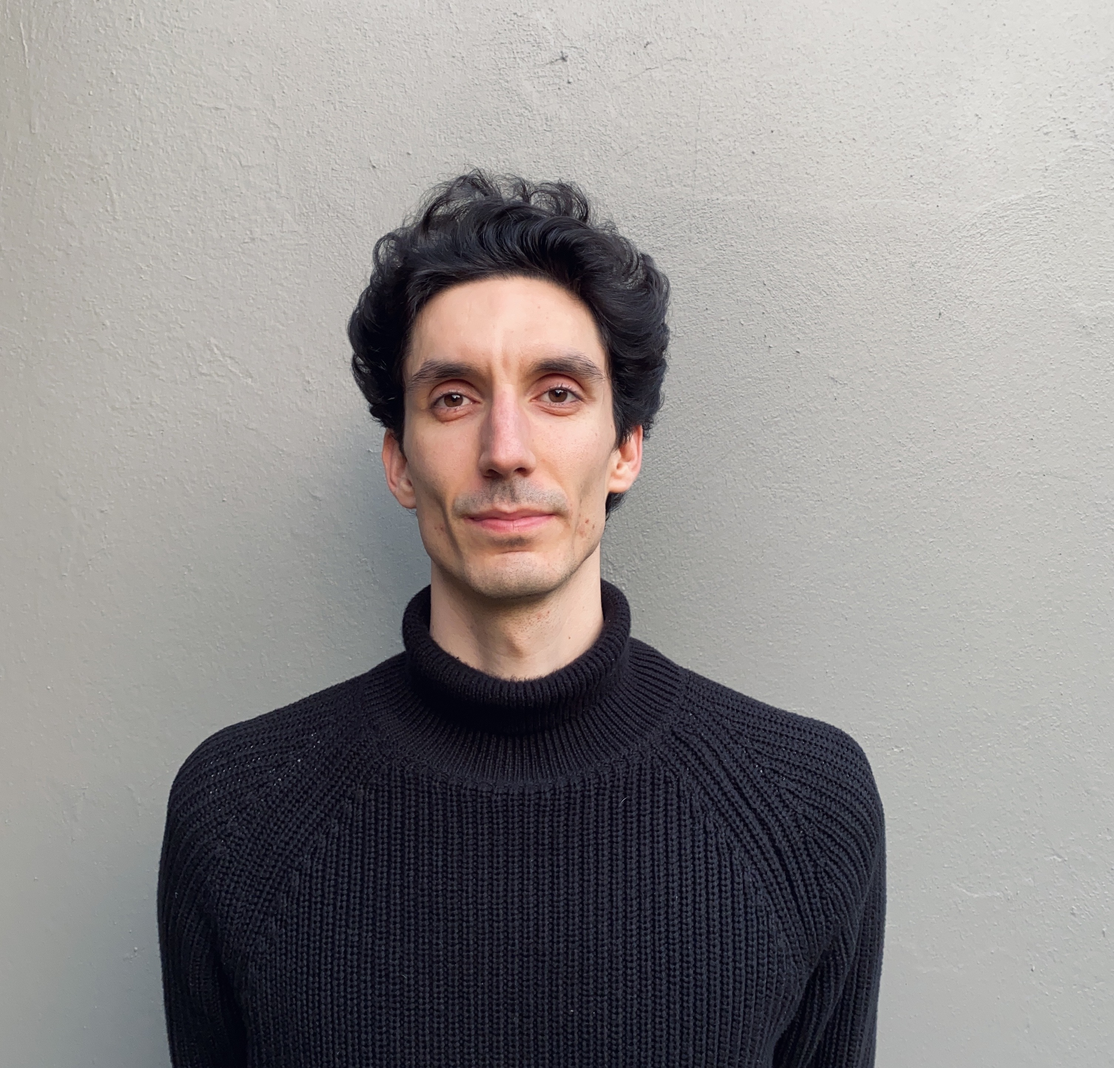
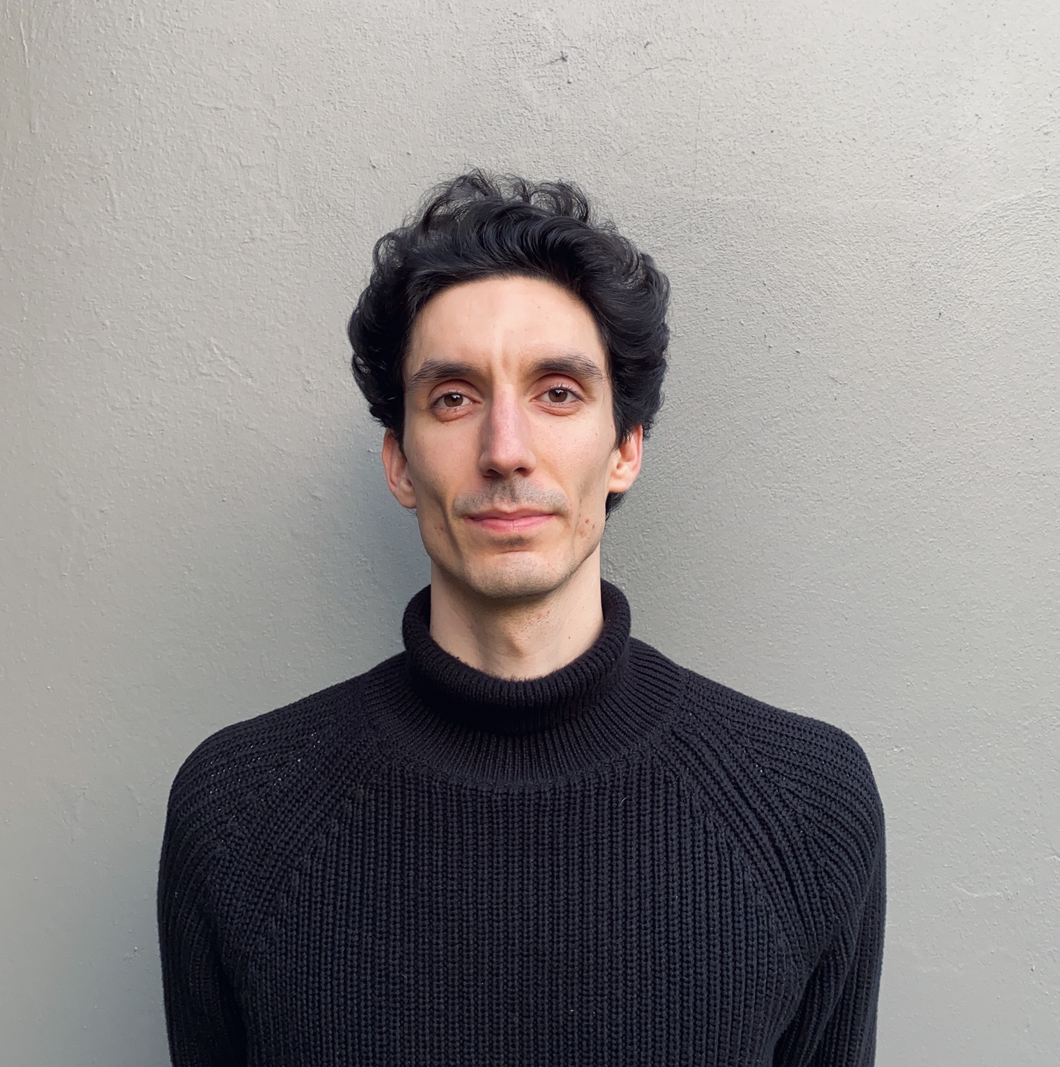
adding proyect list structure

Changed region(s): [[0.1243, 0.156, 0.839, 1.0], [0.808, 0.1872, 0.9633, 0.3121], [0.4661, 0.0, 0.5594, 0.1248]]

diff --git a/components/Main.jsx b/components/Main.jsx
@@ -10,7 +10,7 @@ const Main = () => {
     <div className="flex flex-col lg:flex-row justify-between items-center my-10">
 
         <div className="flex flex-col items-center justify-center">
-            <div className="relative mb-10 mt-[4rem] block h-[14rem] w-[16rem] items-center justify-center lg:mt-[8rem] lg:h-[20rem] lg:w-[22rem]">
+            <div className="relative mb-10 mt-[4rem] block h-[14rem] w-[15rem] items-center justify-center lg:mt-[8rem] lg:h-[20rem] lg:w-[21rem]">
                 <Image
                     src={avatar}
                     className="rounded-[3rem]"
@@ -20,10 +20,10 @@ const Main = () => {
             </div>
 
             <div className="flex flex-col items-center justify-center">
-                <h1 className="mb-10 bg-gradient-to-b from-slate-400 to-slate-900 bg-clip-text text-7xl font-bold tracking-tight text-transparent">
+                <h1 className="mb-10 bg-gradient-to-b from-slate-400 to-slate-900 bg-clip-text text-7xl font-bold tracking-tight text-transparent text-center px-15">
                     Hi, I am Sergio!
                 </h1>
-                <h3 className="text-center text-[1.6rem] font-light tracking-tight">
+                <h3 className="text-center text-[1.6rem] font-light tracking-tight text-center px-10">
                     I am a Full Stack Developer with a passion for coding and problem-solving based in Spain.
                 </h3>
             </div>
@@ -45,7 +45,7 @@ const Main = () => {
         </div>
 
 
-        <div className="lg:pt-[8rem] lg:ml-20">
+        <div className="lg:pt-[5rem] lg:ml-20">
             <Cube />
         </div>
 

diff --git a/projects.js b/projects.js
@@ -1,0 +1,51 @@
+import project1 from "./assets/avatar.jpg";
+import project2 from "./assets/avatar.jpg";
+import project3 from "./assets/avatar.jpg";
+import project4 from "./assets/avatar.jpg";
+import project5 from "./assets/avatar.jpg";
+import project6 from "./assets/avatar.jpg";
+
+export const projects = [
+  {
+    title: "Project 1",
+    description: "description",
+    image: project1,
+    demoLink: "https://github.com/sergiolopezsouto/",
+    codeLink: "https://github.com/sergiolopezsouto/",
+  },
+  {
+    title: "Project 2",
+    description: "description",
+    image: project2,
+    demoLink: "https://github.com/sergiolopezsouto/",
+    codeLink: "https://github.com/sergiolopezsouto/",
+  },
+  {
+    title: "Project 3",
+    description: "description",
+    image: project3,
+    demoLink: "https://github.com/sergiolopezsouto/",
+    codeLink: "https://github.com/sergiolopezsouto/",
+  },
+  {
+    title: "Project 4",
+    description: "description",
+    image: project4,
+    demoLink: "https://github.com/sergiolopezsouto/",
+    codeLink: "https://github.com/sergiolopezsouto/",
+  },
+  {
+    title: "Project 5",
+    description: "description",
+    image: project5,
+    demoLink: "https://github.com/sergiolopezsouto/",
+    codeLink: "https://github.com/sergiolopezsouto/",
+  },
+  {
+    title: "Project 6",
+    description: "description",
+    image: project6,
+    demoLink: "https://github.com/sergiolopezsouto/",
+    codeLink: "https://github.com/sergiolopezsouto/",
+  },
+];

diff --git a/components/ProjectCard.jsx b/components/ProjectCard.jsx
@@ -1,0 +1,39 @@
+import Image from 'next/image';
+import { FaPlay, FaCode } from 'react-icons/fa';
+
+const ProjectCard = (props) => {
+  return (
+    <div className="rounded-lg border bg-white shadow-md transition-all hover:-translate-y-1">
+        <Image
+          className="rounded-t-lg"
+          src={props.image}
+          alt="project preview image"
+          layout="responsive"
+          width={525}
+          height={320}
+        />
+
+        <div className="p-4">
+          <h5 className="text-gray-90 text-xl font-medium tracking-tight text-slate-600">
+            {props.title}
+          </h5>
+          <p className="text-gray-600 text-md mt-2">{props.description}</p>
+        </div>
+
+        <div className="flex justify-between items-center p-4">
+            <a href={props.demoLink} target="_blank" rel="noopener noreferrer">
+                <button className="flex items-center gap-1 bg-blue-500 hover:bg-blue-700 text-white py-1 px-2 rounded transition duration-300 ease-in-out">
+                    <FaPlay /> Demo
+                </button>
+            </a>
+            <a href={props.codeLink} target="_blank" rel="noopener noreferrer">
+                <button className="flex items-center gap-1 bg-gray-500 hover:bg-gray-700 text-white py-1 px-2 rounded transition duration-300 ease-in-out">
+                    <FaCode /> Code
+                </button>
+                </a>
+        </div>
+    </div>
+  );
+}
+
+export default ProjectCard;

diff --git a/components/Projects.jsx b/components/Projects.jsx
@@ -1,8 +1,21 @@
+import { projects } from '@/projects';
+import ProjectCard from "./ProjectCard"
+
 const Projects = () => {
 
   return (
-    <div className="my-10">Projects</div>
+    <div className="my-10 flex flex-col items-center justify-center md:w-1/2">
+        <h2 className="mb-8 mt-10 text-5xl font-bold tracking-tight text-slate-700 text-center">Projects</h2>
+        
+        <div className="grid md:grid-cols-1 lg:grid-cols-2 xl:grid-cols-3 gap-8">
+          {
+          projects.map((project, index) => (
+              <ProjectCard key={index} {...project} />
+          ))
+          }
+        </div>
+    </div>
   )
 }
 
-export default Projects
+export default Projects;

diff --git a/app/page.js b/app/page.js
@@ -1,15 +1,15 @@
 import Main from "@/components/Main";
-import About from "@/components/About";
+import Skills from "@/components/Skills";
 import Projects from "@/components/Projects";
-import Footer from "@/components/Footer";
 import ContactMe from "@/components/ContactMe";
+import Footer from "@/components/Footer";
 
 export default function Home() {
   return (
     <main className="flex min-h-screen flex-col items-center justify-between px-20 py-0">
       <Main />
       <hr />
-      <About />
+      <Skills />
       <hr />
       <Projects />
       <hr />

diff --git a/components/Footer.jsx b/components/Footer.jsx
@@ -8,7 +8,7 @@ const Footer = () => {
   const year = new Date().getFullYear()
 
   return (
-    <div className="mt-[8rem] flex w-screen flex-col items-center bg-gradient-to-t from-slate-200 py-[2rem] text-slate-400">
+    <div className="mt-10 flex w-screen flex-col items-center bg-gradient-to-t from-slate-200 py-[2rem] text-slate-400">
 
       <div className="flex w-11/12 flex-row items-center justify-center">
         <span className="mr-1 inline-block">Built using</span>

diff --git a/components/ContactMe.jsx b/components/ContactMe.jsx
@@ -3,7 +3,7 @@ const ContactMe = () => {
   const contactEmail = "sergio.lopez.souto@gmail.com"
 
   return (
-    <div className="mt-[10rem] flex flex-col items-center justify-center w-11/12 md:w-1/2">
+    <div className="my-10 flex flex-col items-center justify-center w-11/12 md:w-1/2">
         <h2 className="mb-8 mt-10 text-5xl font-bold tracking-tight text-slate-700 text-center">
         Contact Me
         </h2>

diff --git a/components/Skills.jsx b/components/Skills.jsx
@@ -1,0 +1,11 @@
+const Skills = () => {
+
+  return (
+    <div className="my-10">
+        <h2 className="mb-8 mt-10 text-5xl font-bold tracking-tight text-slate-700 text-center">Skills</h2>
+    </div>
+
+  )
+}
+
+export default Skills
